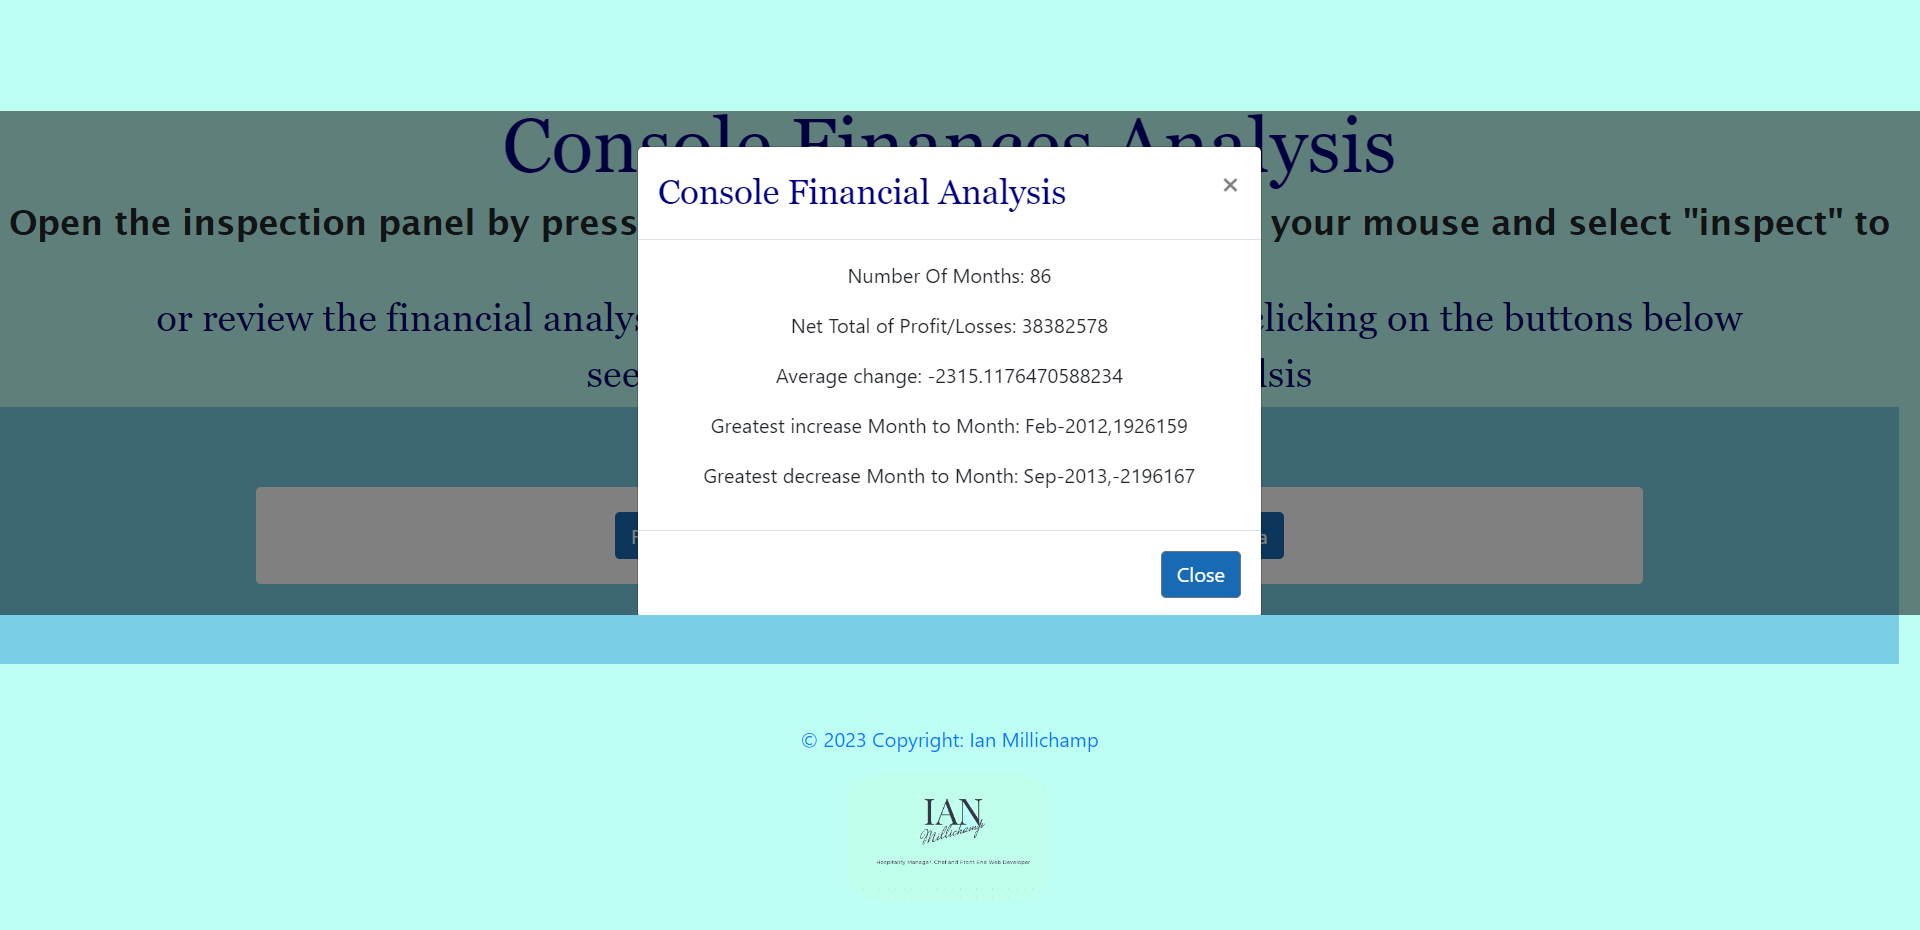
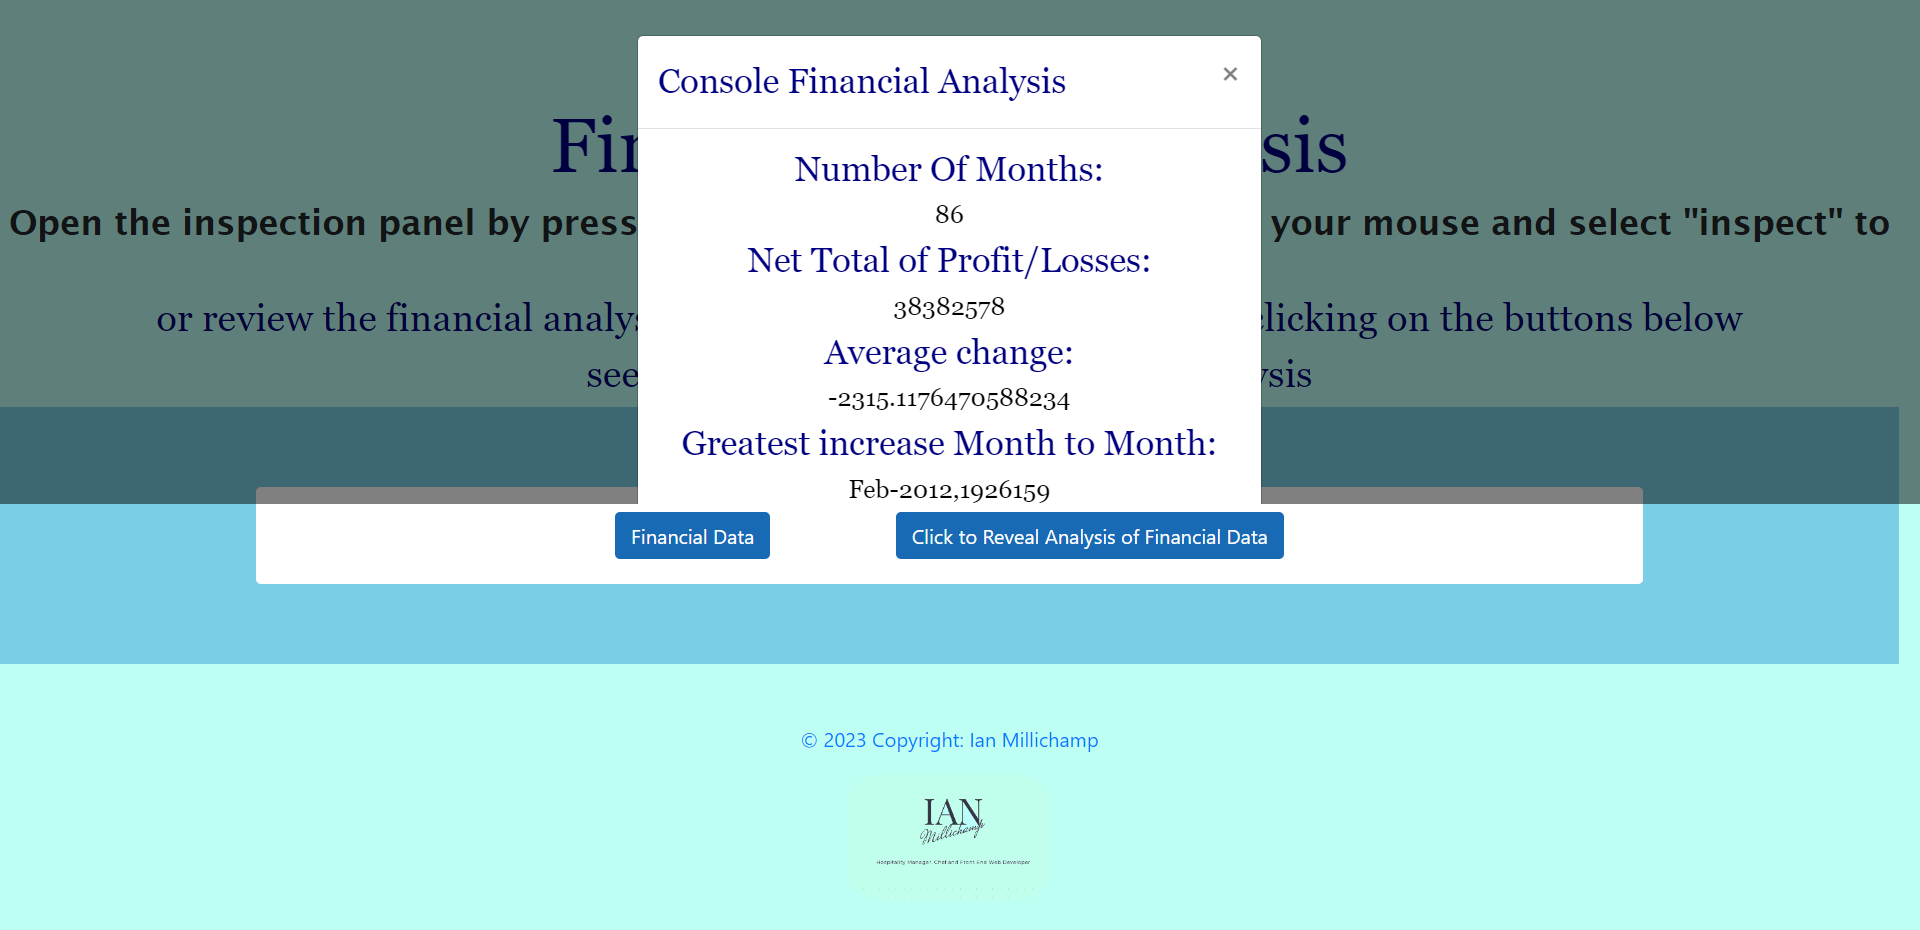
added pseudocoding

Changed region(s): [[0.0, 0.0, 1.0, 0.686]]

diff --git a/index.html b/index.html
@@ -5,29 +5,36 @@
   <meta charset="UTF-8">
   <meta http-equiv="X-UA-Compatible" content="IE=edge">
   <meta name="viewport" content="width=device-width, initial-scale=1.0">
-  <title>Document</title>
+  <title>Financial Data Analysis</title>
+  <!--links for bootstrap 4.3.1 css-->
   <link rel="stylesheet" href="https://cdn.jsdelivr.net/npm/bootstrap@4.3.1/dist/css/bootstrap.min.css"
     integrity="sha384-ggOyR0iXCbMQv3Xipma34MD+dH/1fQ784/j6cY/iJTQUOhcWr7x9JvoRxT2MZw1T" crossorigin="anonymous">
+  <!--link to local css file-->
   <link rel="stylesheet" type="text/css" href="./assets/console.css" />
 </head>
 
 <body>
   <header>
-    <h1>Console Finances Analysis</h1>
+    <!--title of page for ui-->
+    <h1>Financial Data Analysis</h1>
+    <!--text to describe how to use the page to reveal provided data and analysis carried out by jva script page-->
     <h2 class="text-center">Open the inspection panel by pressing "ctrl-shift-i" or right click using your mouse and
       select "inspect"
       to check the console log </h2>
     <h3 class="text-center">or review the financial analysis of a set financial array of data by clicking on the buttons
       below</h3>
-    <h3 class="text-center"> see the data analysed and the final anaylsis</h3>
+    <h3 class="text-center"> see the data analyzed and the final analysis</h3>
   </header>
+  <!--jumbotron to set a card centrally within -->
   <div class="jumbotron jumbotron-fluid ">
     <div class="container">
       <div class="card text-center cardMain">
         <div class="card-body">
+          <!--button to connect with the modal that will contain the provided data to be analyzed-->
           <button type="button" class="btn mr-5 responsiveContent" data-toggle="modal" data-target="#dataModal">
             Financial Data
           </button>
+          <!--butoon to connect with the modal that will contain the analysis carried out by the javascript functions-->
           <button type="button" class="btn ml-5 responsiveContent" data-toggle="modal" data-target="#financialModal">
             Click to Reveal Analysis of Financial Data
           </button>
@@ -40,45 +47,47 @@
     aria-hidden="true">
     <div class="modal-dialog" role="document">
       <div class="modal-content">
-        <div class="modal-header">financial Data Array to Be Analysed
+        <!--header of modal-->
+        <h4 class="modal-header">Financial Data Array to Be Analyzed</h4>
+          <!--h4 class for data array finances content to be printed to-->
           <h4 class="modal-title" id="financialModalLabel"></h4>
           <button type="button" class="close" data-dismiss="modal" aria-label="Close">
             <span aria-hidden="true">&times;</span>
           </button>
-        </div>
+        
         <div class="modal-body text-center">
-          <p  style="max-width: 25vh;" id="dataArray"></p>
+          <h5 style="max-width: 25vh;" id="dataArray"></h5>
         </div>
         <div class="modal-footer">
+          <!--button to close the modal when not required-->
           <button type="button" class="btn btn-secondary" data-dismiss="modal">Close</button>
         </div>
       </div>
     </div>
   </div>
-
-
-
   <!-- Modal to display financial analysis -->
   <div class="modal fade" id="financialModal" tabindex="-1" role="dialog" aria-labelledby="financialModalLabel"
     aria-hidden="true">
     <div class="modal-dialog" role="document">
       <div class="modal-content">
         <div class="modal-header">
+          <!--title of modal-->
           <h4 class="modal-title text-center" id="financialModalLabel">Console Financial Analysis</h4>
           <button type="button" class="close" data-dismiss="modal" aria-label="Close">
             <span aria-hidden="true">&times;</span>
           </button>
         </div>
         <div class="modal-body text-center">
-          <p id="numberOfMonths"></p>
+          <!--h4 classes to link the results of the data analysis carried out by the javascript to-->
+          <h4>Number Of Months:</h4><h5 id="numberOfMonths"></h5>
           <!--add id to link result for number of months-->
-          <p id="netTotal"></p>
+          <h4>Net Total of Profit/Losses:  </h4><h5 id="netTotal"></h5>
           <!--add id to link net total of profit/losses-->
-          <p id="averageChange"></p>
+         <h4>Average change:  </h4> <h5 id="averageChange"></h5>
           <!--add link to average change of profit and loss-->
-          <p id="greatestIncrease"></p>
+          <h4>Greatest increase Month to Month: </h4><h5 id="greatestIncrease"></h5>
           <!--add link to show the month with the greatest increase-->
-          <p id="greatestDecrease"></p>
+          <h4>Greatest decrease Month to Month:  </h4><h5 id="greatestDecrease"></h5>
           <!--add link to show the month with the greatest decrease-->
         </div>
         <div class="modal-footer">
@@ -87,19 +96,20 @@
       </div>
     </div>
   </div>
-  <footer>
+  <!--fotter section of page-->
+  <footer class>
     <div class="text-center text-primary p-3" id="copyright-link">© 2023 Copyright:
+      <!--link name of author to main github page-->
       <a class="text-primnary" href="https://github.com/IanMilli"> Ian
         Millichamp</a>
     </div>
+    <!--image to display authors logo-->
     <img class=" rounded-5 d-block mx-auto" src="./assets/logo2.png"
       style="height:25vh;width:auto;border-radius: 20%;"><img>
   </footer>
-
-
-
+  <!--link to local js file-->
   <script src="./assets/console.js"></script>
-
+  <!--link to bootstrap js files-->
   <script src="https://code.jquery.com/jquery-3.3.1.slim.min.js"
     integrity="sha384-q8i/X+965DzO0rT7abK41JStQIAqVgRVzpbzo5smXKp4YfRvH+8abtTE1Pi6jizo"
     crossorigin="anonymous"></script>
@@ -109,7 +119,6 @@
   <script src="https://cdn.jsdelivr.net/npm/bootstrap@4.3.1/dist/js/bootstrap.min.js"
     integrity="sha384-JjSmVgyd0p3pXB1rRibZUAYoIIy6OrQ6VrjIEaFf/nJGzIxFDsf4x0xIM+B07jRM"
     crossorigin="anonymous"></script>
-
 </body>
 
 </html>

diff --git a/assets/console.css b/assets/console.css
@@ -1,31 +1,37 @@
+
+/*styling to give main body of the page a set background color*/
 body {
     margin: 0;
     background-color: rgb(190, 255, 243);
 }
+/*styling to h1,h2,h3,h4 and h5 classes to make text on page responsive*/
 
-
-h1{font-family: Georgia, 'Times New Roman', Times, serif;
+h1 {font-family: Georgia, 'Times New Roman', Times, serif;
     font-size: 4vw;
     color: Navy;
 
 }
-h2{font-family: 'Lucida Sans', 'Lucida Sans Regular', 'Lucida Grande', 'Lucida Sans Unicode', Geneva, Verdana, sans-serif;
+h2 {font-family: 'Lucida Sans', 'Lucida Sans Regular', 'Lucida Grande', 'Lucida Sans Unicode', Geneva, Verdana, sans-serif;
     font-size: 1.8vw;
 
 }
-h3{font-family: Georgia, 'Times New Roman', Times, serif;
+h3 {font-family: Georgia, 'Times New Roman', Times, serif;
     font-size: 2vw;
     color: #03037a;
 
 
 }
-h4{font-family: Georgia, 'Times New Roman', Times, serif;
+h4 {font-family: Georgia, 'Times New Roman', Times, serif;
     font-size: 1.8vw;
     color: navy;
-   
 
 }
+h5 {font-family: Georgia, 'Times New Roman', Times, serif;
+    font-size: 1.3vw;
+    color: black;
 
+}
+/*styling for the header section of the page*/
 header {
     margin-top: 5rem;
     display: flex;
@@ -34,33 +40,19 @@ header {
     align-items: center;
 }
 
-.subtitle {
-display: flex;
-align-items: center;
-justify-content: center;
-}
-
+/*styling for the central card to give it a border and  responsive height and width*/
 .card {
     border: 3px; 
     border-color: black;
     height: auto;
 width: 100%;
 }
-
+/*styling to code the background of the jumbotron*/
 .jumbotron {
     background-color: rgb(122, 206, 229);
     background-size: cover;
   }
-
-
-  .result_container {
-    
-    display: flex;
-    align-items: center;
-    justify-content: center;
-    margin-bottom: 1em;
-    
-  }
+/*styling to the buttons to give them same background and white text*/
 
   .btn {
 background-color: #176ab3;

diff --git a/assets/console.js b/assets/console.js
@@ -259,7 +259,7 @@ let finances = [
   
   
   
-  // compile data results (guidance from Laura Cole Instructor)
+  // compile data results to make it easier to review in console log (guidance from Laura Cole Instructor)
 let analysis = 'Financial Analysis' +
 '\n--------------------' +
 '\nTotal months: ' + numberOfMonths +
@@ -269,7 +269,7 @@ let analysis = 'Financial Analysis' +
 '\nGreatest decrease: ' + solution.decrease;
 
 console.log(analysis);
-
+//attach results to specfic ids in html to allow results to be printed to the user interface - set required variables first
 
 let numberOfMonthsEL = document.getElementById("numberOfMonths");
 let netTotalEL = document.getElementById("netTotal");
@@ -278,10 +278,10 @@ let greatestIncreaseEL = document.getElementById("greatestIncrease");
 let greatestDecreaseEL = document.getElementById("greatestDecrease");
 let dataArrayEl = document.getElementById("dataArray")
 
-numberOfMonthsEL.innerHTML = "Number Of Months:  " + numberOfMonths;
-netTotalEL.innerHTML = "Net Total of Profit/Losses:  " + netTotal ;
-averageChangeEL.innerHTML = "Average change:  " + solution.average;
-greatestIncreaseEL.innerHTML = "Greatest increase Month to Month:  " + solution.increase;
-greatestDecreaseEL.innerHTML = "Greatest decrease Month to Month:  " + solution.decrease;
+numberOfMonthsEL.innerHTML =  numberOfMonths;
+netTotalEL.innerHTML = netTotal ;
+averageChangeEL.innerHTML =  solution.average;
+greatestIncreaseEL.innerHTML =  solution.increase;
+greatestDecreaseEL.innerHTML = solution.decrease;
 dataArrayEl.innerHTML = finances;
 
